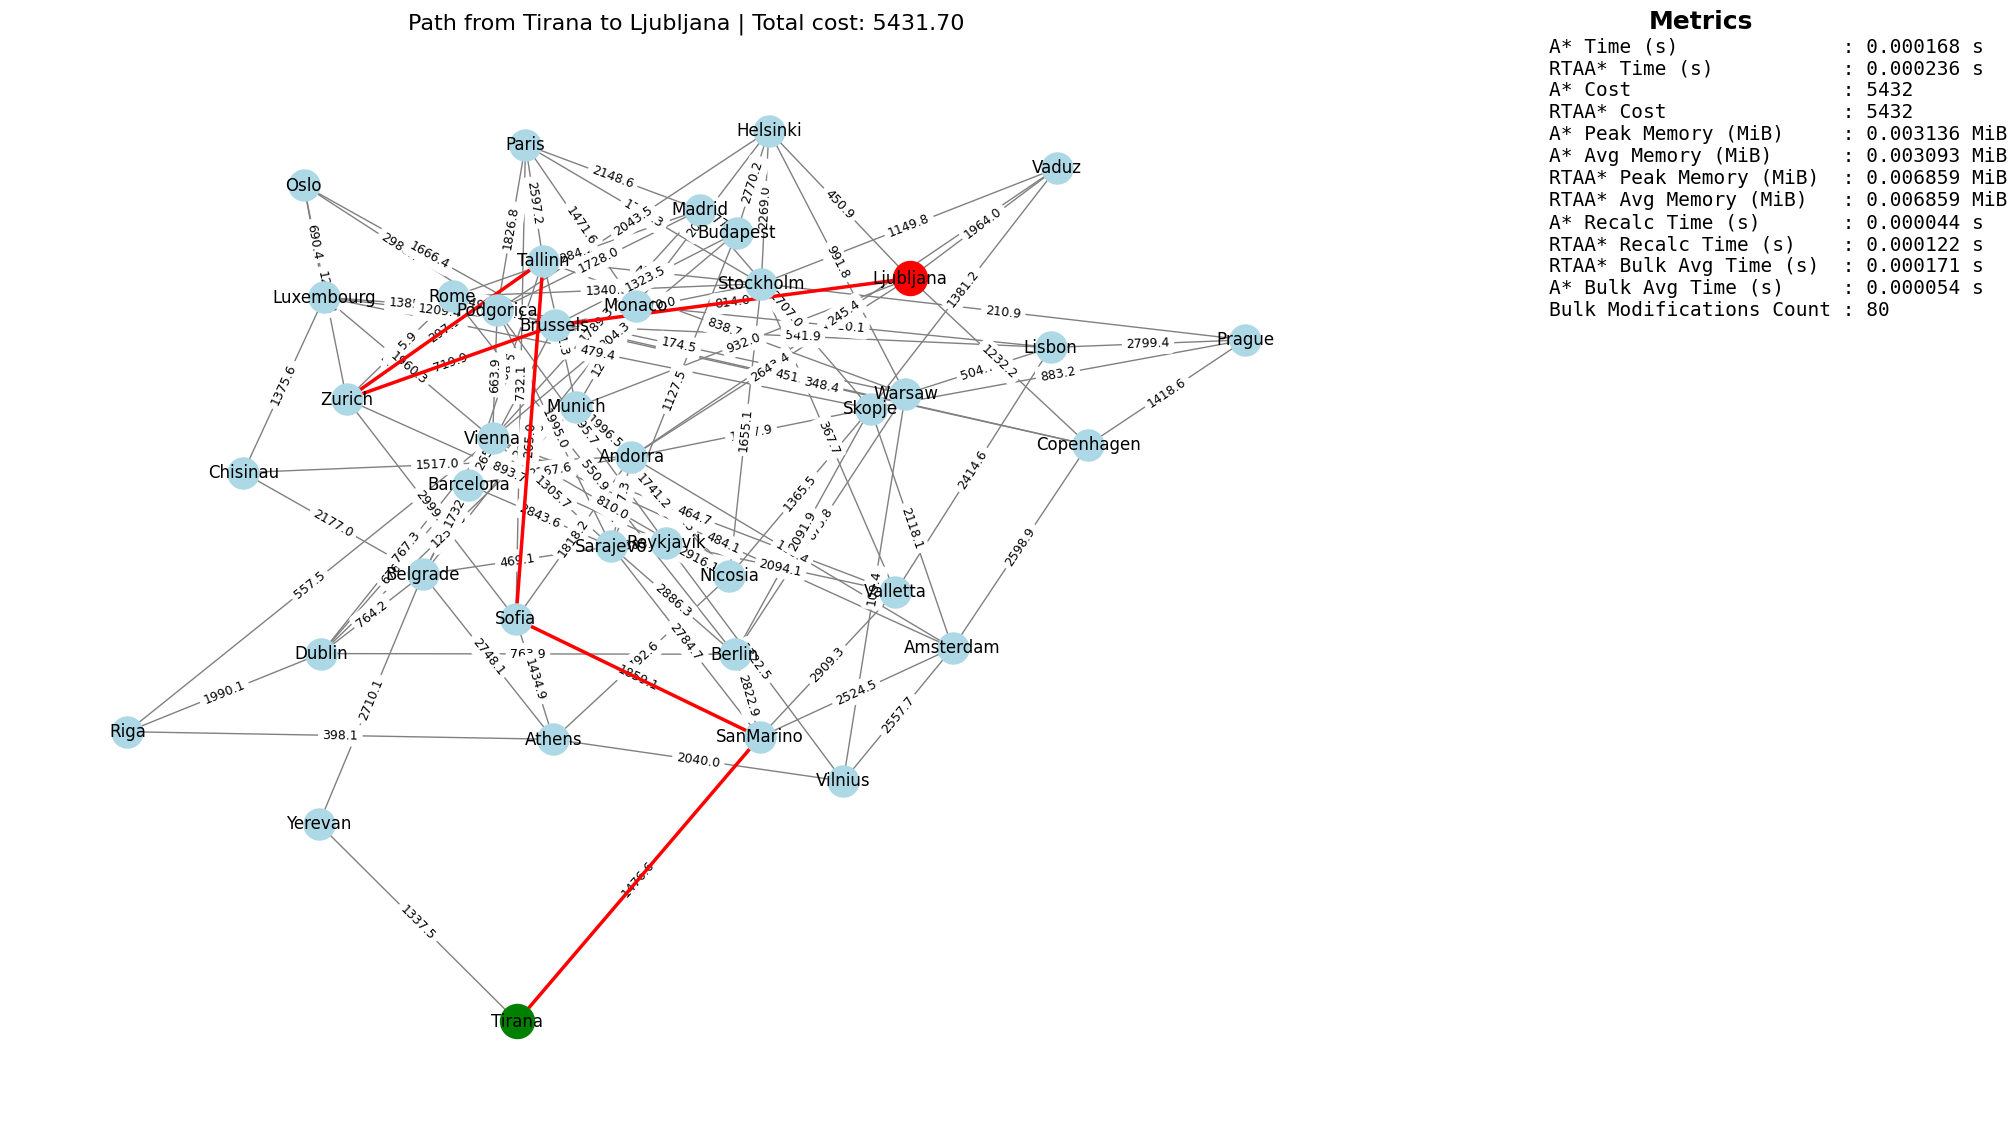
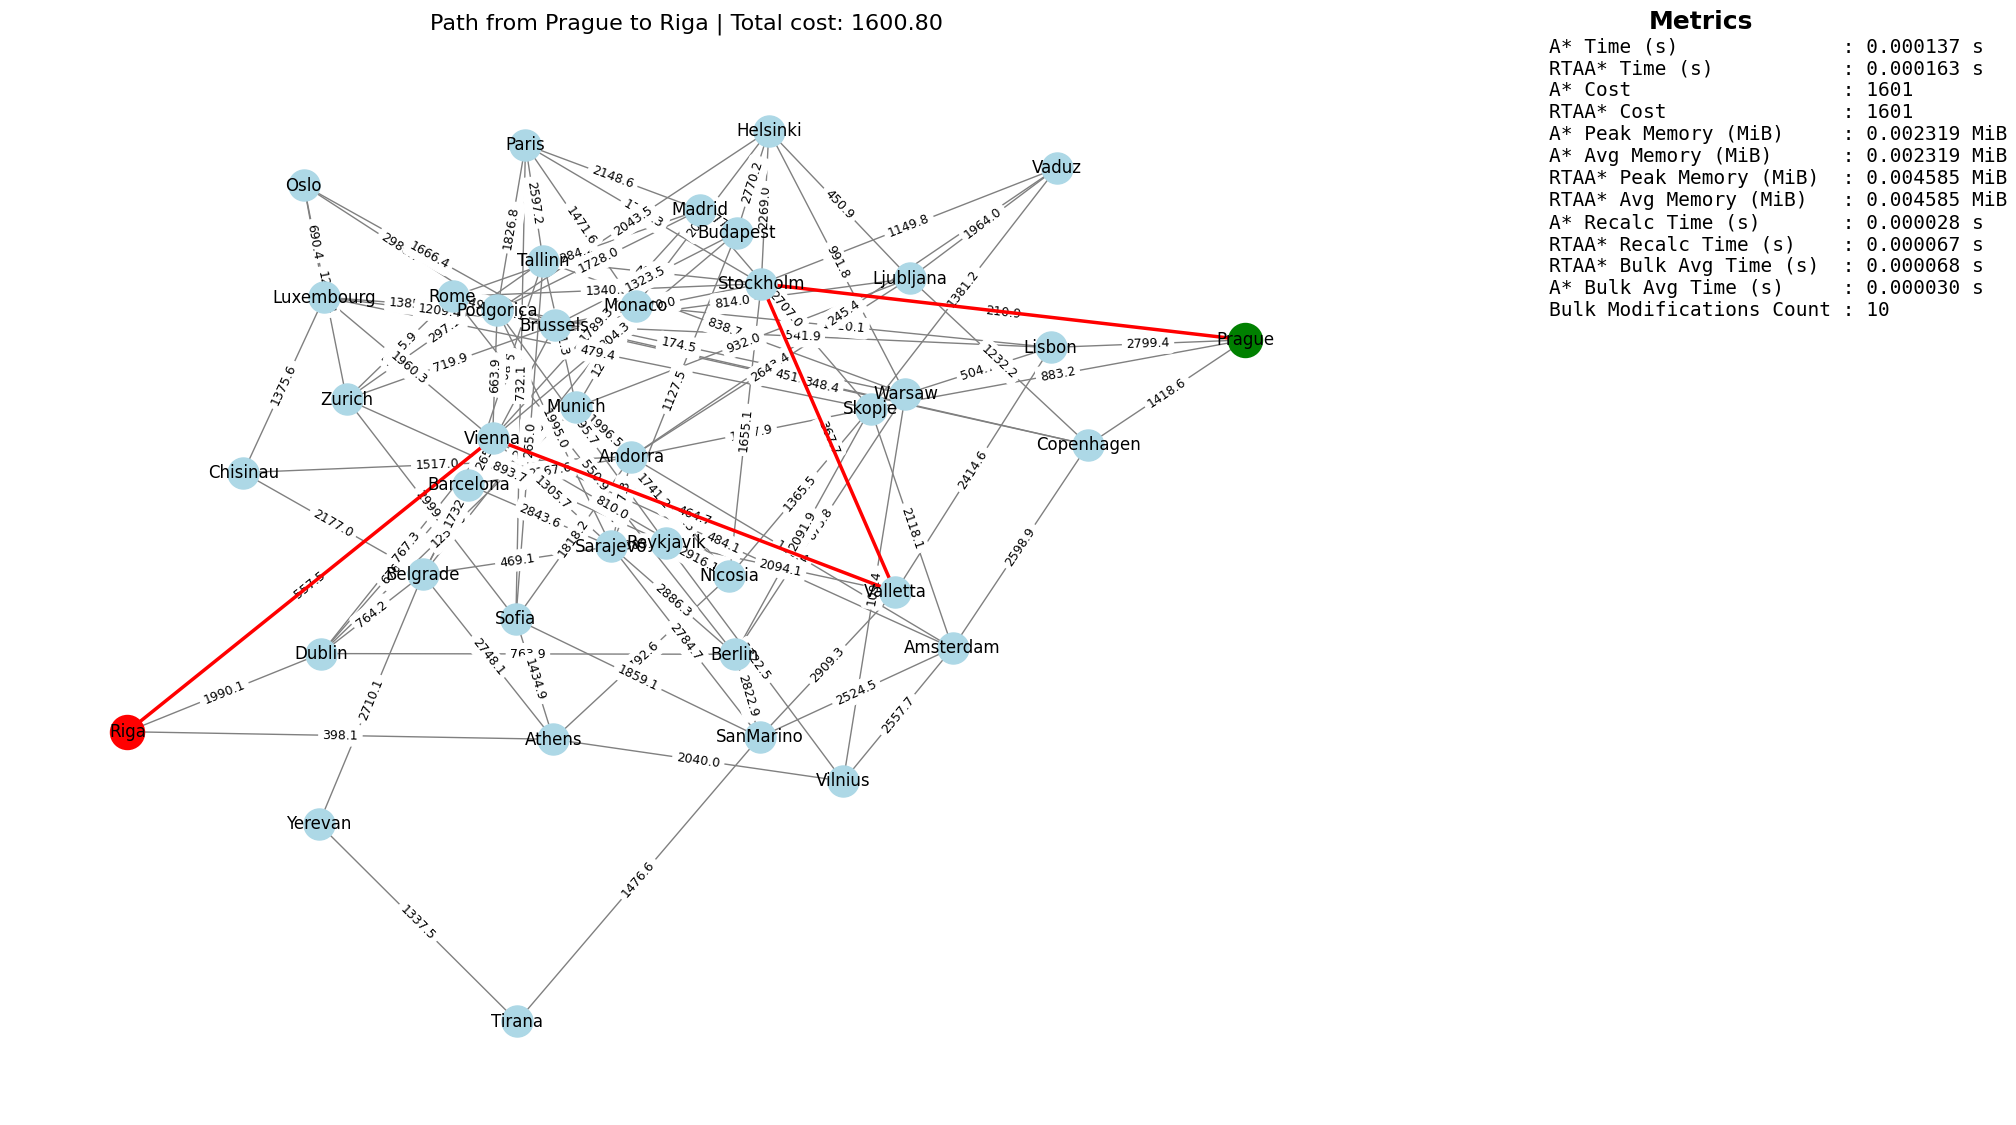
Adding new functionality to show graph

diff --git a/main.py b/main.py
@@ -11,14 +11,16 @@ from Algorithms.bi_astar import bidirectional_astar
 from Algorithms.ida_star import idastar_path
 from Algorithms.rtaa_star import rtaa_star_path
 from Algorithms.sma_star import sma_star_path
-from config import MEMORY_LIMIT, LOOKAHEAD, MOVELIMIT, N_MODIFICATIONS, SOURCE, TARGET, CSV_PATH, EXCEL_FILE, DIRECTED
 from CsvProcessor.generator import generate_graph_from_csv
+from CsvProcessor.processor import CSVLinearCombiner
 from Graphs.graphs import GraphPlotter
 from Testers.bi_astar import AStarVsBidirectionalComparison
 from Testers.d_star_lite import DStarLiteVsAStarComparison
 from Testers.ida_star import IDAStarVsAStarComparison
 from Testers.rtaa_star import RTAAStarVsAStarComparison
 from Testers.sma_star import SMAStarVsAStarComparison
+from config import MEMORY_LIMIT, LOOKAHEAD, MOVELIMIT, N_MODIFICATIONS, SOURCE, TARGET, EXCEL_FILE, DIRECTED, \
+    CSV_PROCESSED_PATH, CSV_PATH
 
 
 # ─── Excel helpers ────────────────────────────────────────────────────────────
@@ -96,7 +98,18 @@ def launch(worker, *args):
 if __name__ == "__main__":
     freeze_support()
 
-    base_graph = generate_graph_from_csv(CSV_PATH, "distance_km", DIRECTED)
+    combiner = CSVLinearCombiner(
+        file_path=Path(CSV_PATH),
+        weights=[0.33, 0.33, 0.33],  # w0, w1, w2
+        encoding="utf-8",
+    )
+
+    df_out = combiner.process()
+    df_out.to_csv(Path(CSV_PROCESSED_PATH),
+                  index=False,
+                  encoding="utf-8")
+
+    base_graph = generate_graph_from_csv(CSV_PROCESSED_PATH, "distance_km", DIRECTED)
     if not nx.has_path(base_graph, SOURCE, TARGET):
         print("No path between source and target. Aborting.")
         exit(1)

diff --git a/CsvProcessor/processor.py b/CsvProcessor/processor.py
@@ -4,11 +4,11 @@ from typing import List, Union
 import pandas as pd
 
 # Generic column names (adjust according to your CSV)
-COL_SOURCE: str = "origin"
-COL_TARGET: str = "destination"
-COL_ATTR1: str = "attr1"
-COL_ATTR2: str = "attr2"
-COL_ATTR3: str = "attr3"
+COL_SOURCE = "origin_city"
+COL_TARGET = "destination_city"
+COL_ATTR1 = "toll"
+COL_ATTR2 = "fuel"
+COL_ATTR3 = "distance_km"
 COL_RESULT: str = "combined_cost"
 
 
@@ -55,6 +55,17 @@ class CSVLinearCombiner:
         Returns the full CSV (including COL_RESULT) as a string without index.
         """
         return self.process().to_csv(index=False)
+
+
+    def save(self, output_path: Union[str, Path], **kwargs) -> Path:
+        """
+        Process the CSV and write the full DataFrame (with COL_RESULT)
+        to *output_path*. Extra keyword arguments are passed straight
+        to pandas.DataFrame.to_csv().
+        """
+        out = Path(output_path)
+        self.process().to_csv(out, index=False, encoding=self.encoding, **kwargs)
+        return out
 
 
 """

diff --git a/config.py b/config.py
@@ -1,9 +1,10 @@
 MEMORY_LIMIT = 26
 LOOKAHEAD = 25
 MOVELIMIT = 3
-N_MODIFICATIONS = 80
-SOURCE = "Tirana"
-TARGET = "Ljubljana"
+N_MODIFICATIONS = 10
+SOURCE = "Prague"
+TARGET = "Riga"
 CSV_PATH = "Csv/cities_nodes_special_original.csv"
+CSV_PROCESSED_PATH = "Csv/Processed/processed.csv"
 EXCEL_FILE = "metrics.xlsx"
 DIRECTED = False
